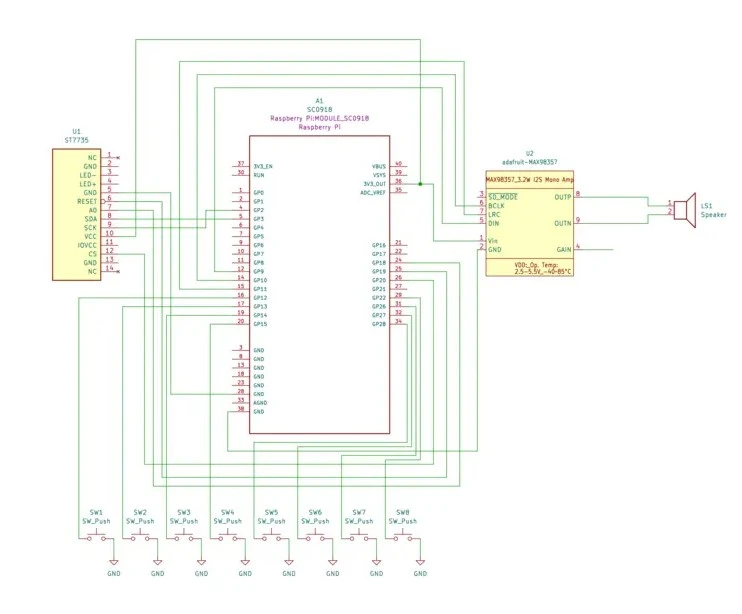
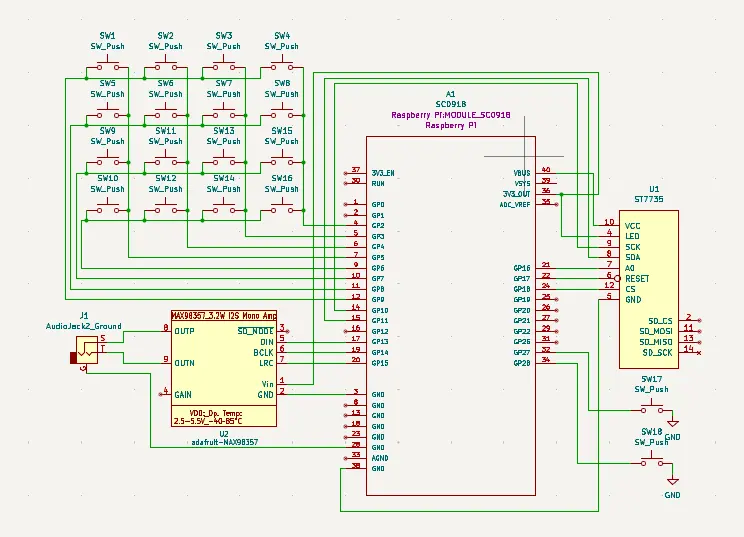
Update schematic and add pictures

Changed region(s): [[0.062, 0.0596, 0.9919, 0.9534], [0.8989, 0.8641, 0.9299, 0.9236], [0.186, 0.9236, 0.217, 0.9534]]

diff --git a/website/versioned_docs/version-acs_cc/project/2025/npopa/index.md b/website/versioned_docs/version-acs_cc/project/2025/npopa/index.md
@@ -31,6 +31,7 @@ Display, Micro SD Card Module, DAC, Buttons, and Output components.
 ### Display (ST7735R)
 
 **Interface:** SPI  
+
 **Connections:**  
 - SDA (Data Line) connected to Raspberry Pi Pico 2 SPI pins  
 - SCL (Clock Line) connected to Raspberry Pi Pico 2 SPI pins
@@ -41,8 +42,9 @@ Display, Micro SD Card Module, DAC, Buttons, and Output components.
 
 ### Buttons
 
-**Interface:** GPIO 
-**Connections:**  
+**Interface:** GPIO
+
+**Connections:**
 - Connected to GPIO pins for controls (playback, recording, navigation, sequencing)
 
 **Role:** Allows user input for sampling, playback, sequence control, and settings.
@@ -52,6 +54,7 @@ Display, Micro SD Card Module, DAC, Buttons, and Output components.
 ### Micro SD Card Module
 
 **Interface:** SPI  
+
 **Connections:**  
 - SCK (Serial Clock) connected to Pico SPI pin  
 - MOSI (Master Out Slave In) connected to Pico SPI pin  
@@ -65,6 +68,7 @@ Display, Micro SD Card Module, DAC, Buttons, and Output components.
 ### DAC (MAX98357A)
 
 **Interface:** I2S  
+
 **Connections:**  
 - Connected via I2S interface pins on the Raspberry Pi Pico 2
 
@@ -80,9 +84,12 @@ Display, Micro SD Card Module, DAC, Buttons, and Output components.
 
 ## Log
 - **Week 5 - 11 May**:  
-  WIP...
+  Began with a minimal setup: Pico and DAC, in order to verify the quality of the audio output.
+  Next, I have connected the button matrix and mapped the buttons to sounds of different frequencies.
+  By the end of the week I had a minimal implementation of the core functionality of the project.
 - **Week 12 - 18 May**:  
-  WIP...
+  Finished setting up the hardware parts on a breadboard, as well as tampering with the screen.
+  Made adjustments to the KiCad schematic in order to illustrate the complete hardware. 
 - **Week 19 - 25 May**:  
   WIP...
 
@@ -90,11 +97,26 @@ Display, Micro SD Card Module, DAC, Buttons, and Output components.
 - Raspberry Pi Pico 2 (RP2350): Main microcontroller handling audio processing and system logic.
 - I2S DAC – MAX98357A: Converts digital audio signals to analog for high-quality speaker output.
 - ST7735R display: Colored screen for animations.
-- Speaker: Outputs audio playback.
-- Two potentiometers: For adjustable controls (volume/effects).
+- 3.5mm socket: Outputs audio playback. (Headphones not included!)
 - Buttons: Input for interraction with the device.
 
+Below I have provided an overview of the project on a breadboard:
+
+![Overview](overview.webp)
+
+User input close-up:
+
+![Buttons](buttons.webp)
+
+DAC, 3.5mm socket and screen close-up:
+
+![Misc](screen_and_dac.webp)
+
 ## Schematics
+Made using KiCad, this schematic represents the electronic design for CrateDigger.
+The MAX98357 DAC and the 3.5mm socket are placed on the left and next to them is the 4x4 button matrix used for
+adding samples. The display is placed on the right, along with play/write buttons.
+
 ![Schematic](cratedigger_schematic.webp)
 
 ## Bill of Materials
@@ -105,7 +127,7 @@ Display, Micro SD Card Module, DAC, Buttons, and Output components.
 | [ST7735R Display](https://www.optimusdigital.ro/en/lcds/1311-modul-lcd-spi-de-18-128x160.html?search_query=0104110000012661&results=1) | OLED visual interface | 29 RON |
 | [MAX98357 I2S DAC](https://www.emag.ro/amplificator-audio-max98357-i2s-compatibil-cu-esp32-si-raspberry-pi-emg238/pd/DVYJWJYBM/?ref=history-shopping_418527241_221614_1) | Audio output module | 24 RON |
 | [4 Ohm Speaker](https://www.emag.ro/difuzor-mini-arduino-3w-4-ohm-40mm-diametru-z001351/pd/DX2RLHYBM/?ref=history-shopping_418528639_187129_1) | Sound playback | 40 RON |
-| Consumables (buttons, potentiometers, wires, etc.) | Various components | 50 RON |
+| Consumables (buttons,  wires, etc.) | Various components | 50 RON |
 
 ## Software
 
@@ -116,8 +138,10 @@ Display, Micro SD Card Module, DAC, Buttons, and Output components.
 | [embedded-hal](https://github.com/rust-embedded/embedded-hal) | Hardware Abstraction Layer (HAL) traits | Provides unified interfaces for hardware drivers |
 | [embedded-graphics](https://github.com/embedded-graphics/embedded-graphics) | 2D graphics library | Used for drawing to the ST7735R display |
 | [st7735-lcd](https://github.com/almindor/st7735-lcd) | Rust driver for ST7735 display | Controls the ST7735R display |
+| [embassy_rp::pio_programs::i2s] | PIO-backed I²S output driver | Enables I²S audio output using the Programmable I/O system |
 
 ## Links
-- [link1](https://example.com)
-- [link2](https://example.com)
+- [Making some noise with Raspberry Pi Pico](https://community.element14.com/challenges-projects/design-challenges/pi-fest/b/blog/posts/pi-fest---making-some-noise-with-raspberry-pi-pico-blog1)
+- [Pico Sequencer](https://www.hackster.io/Arnov_Sharma_makes/pico-sequencer-173a5f)
+- [RP2040 Drum Machine](https://hackaday.io/project/171112-twrtdm) 
 
